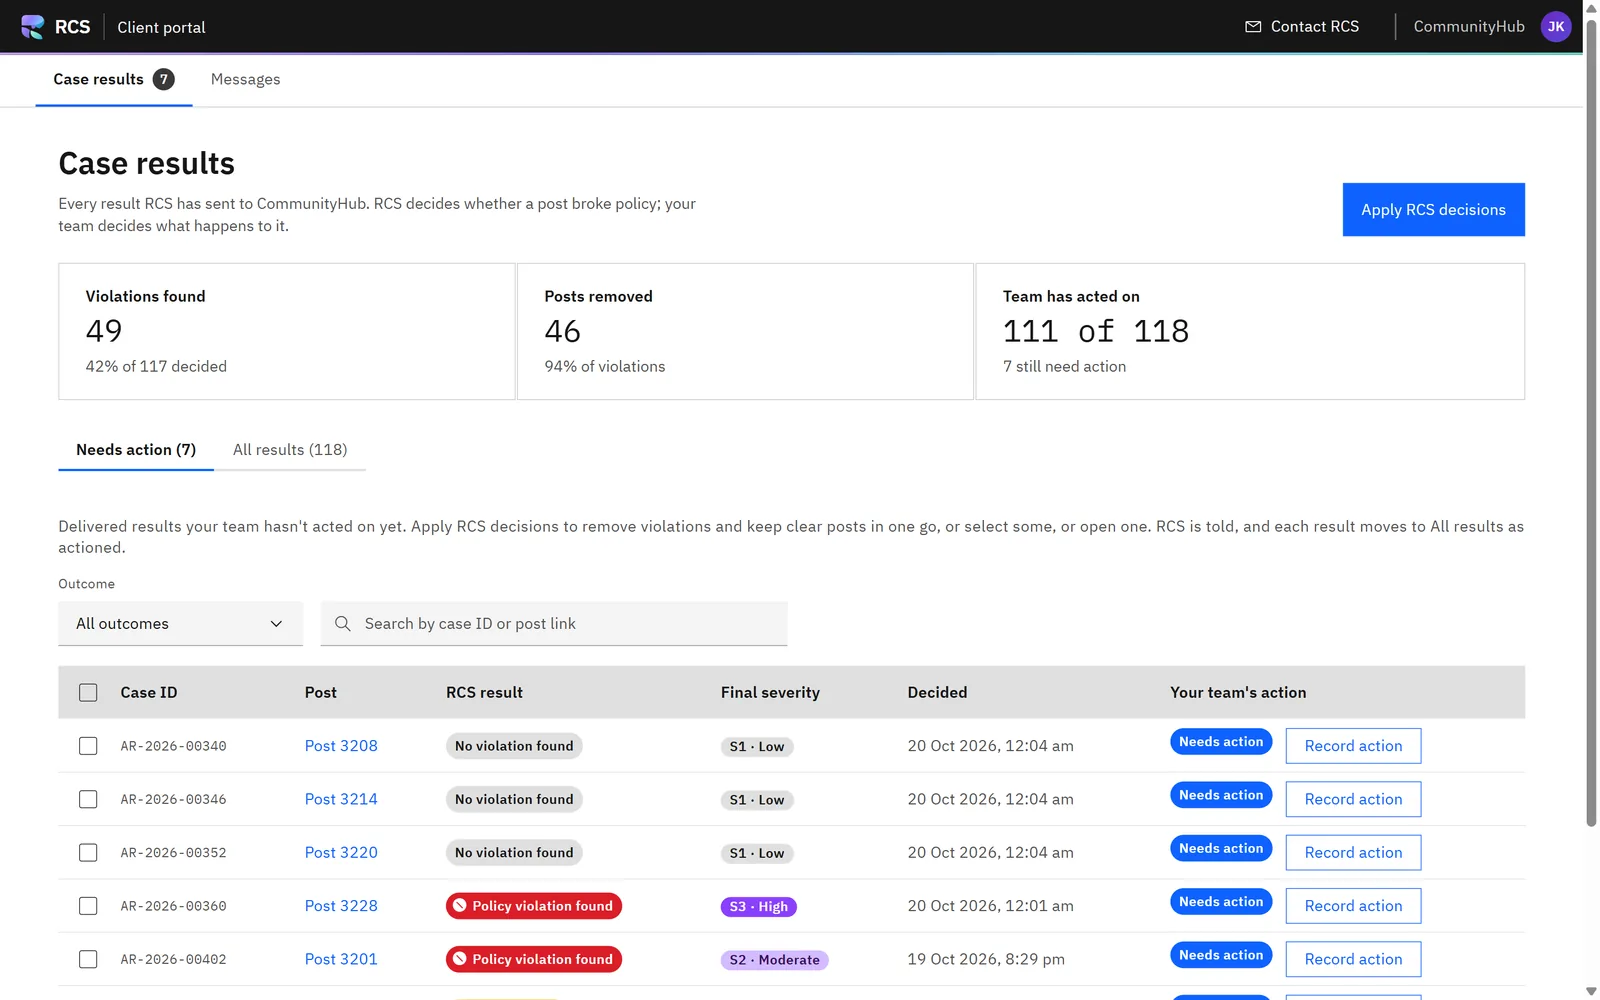
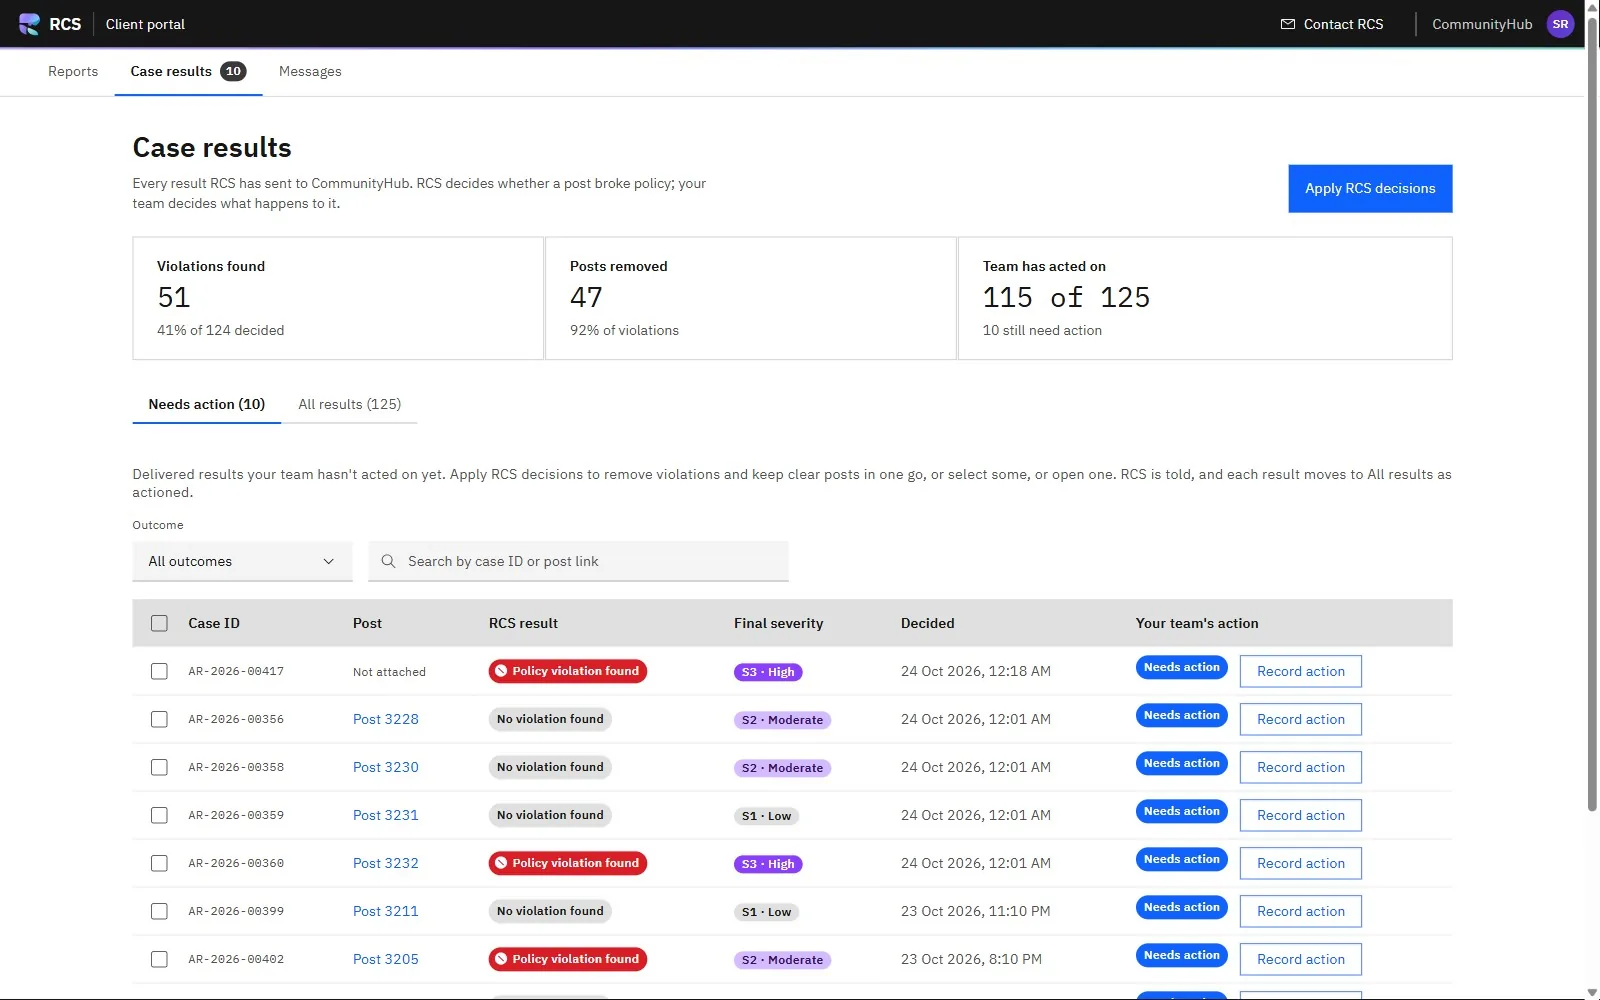
chore(landing): retake the Client case results screenshot
The landing page's Client screenshot showed decision times as
"12:04 am", from before the AM/PM fix. Retaken from the current
build at the same 1600x1000 size, with the mock-only demo badge and
menu hidden as before. Cache key bumped to v=4.

diff --git a/frontend/src/pages/marketing/ProductTour.tsx b/frontend/src/pages/marketing/ProductTour.tsx
@@ -42,7 +42,7 @@ const VIEWS = [
       "Apply RCS decisions in one go, or record an action post by post",
       "Never footage, summaries or who reviewed a case",
     ],
-    image: "/landing/client-case-results.webp?v=3",
+    image: "/landing/client-case-results.webp?v=4",
     window: "RCS · Client portal",
     alt: "The RCS Client portal case results for CommunityHub: figures for violations found, posts removed and results acted on, and a Needs action table listing each case ID, post, RCS result, final severity and a Record action button.",
   },

diff --git a/frontend/src/pages/marketing/RcsLandingPage.test.tsx b/frontend/src/pages/marketing/RcsLandingPage.test.tsx
@@ -84,7 +84,7 @@ describe("RCS landing page", () => {
     expect(images.map((img) => img.getAttribute("src"))).toEqual([
       "/landing/reviewer-workspace.webp?v=3",
       "/landing/manager-overview.webp?v=4",
-      "/landing/client-case-results.webp?v=3",
+      "/landing/client-case-results.webp?v=4",
     ]);
     images.forEach((img) => expect(img.getAttribute("alt")?.length).toBeGreaterThan(60));
   });
